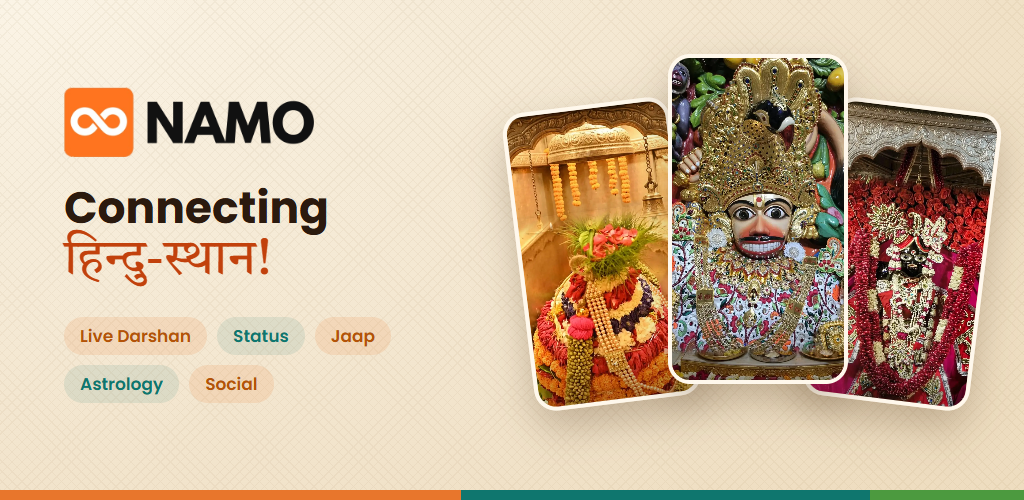
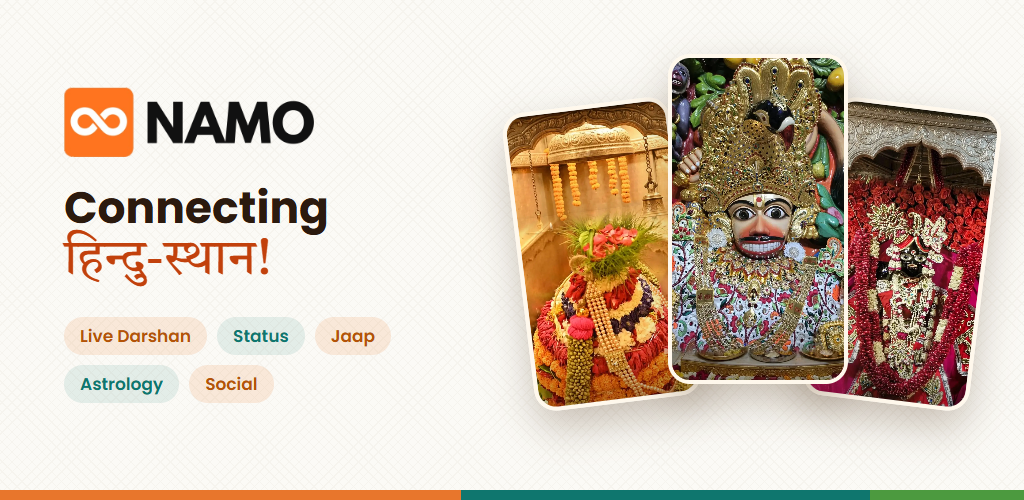
Play listing: six framed screenshots and the feature graphic on a cotton-white base

diff --git a/android/play-listing/feature.html b/android/play-listing/feature.html
@@ -6,10 +6,10 @@
   html, body { width: 1024px; height: 500px; overflow: hidden; }
   body {
     font-family: Poppins, sans-serif;
-    background: radial-gradient(120% 140% at 0% 0%, #FBF4E6 0%, #F3E6CF 60%, #EEDDC0 100%);
+    background: #FBFAF6;
     position: relative;
   }
-  .weave { position: absolute; inset: 0; opacity: .05;
+  .weave { position: absolute; inset: 0; opacity: .035;
     background-image: repeating-linear-gradient(45deg, #7a4a1a 0 1px, transparent 1px 7px),
                       repeating-linear-gradient(-45deg, #7a4a1a 0 1px, transparent 1px 7px); }
   .band { position: absolute; left: 0; right: 0; bottom: 0; height: 10px;

diff --git a/android/play-listing/screenshots/make.py b/android/play-listing/screenshots/make.py
@@ -1,0 +1,37 @@
+"""Writes one 1080x1920 page per Play screenshot: cotton-white base, heading, the phone shot."""
+import io, os
+D = os.path.dirname(os.path.abspath(__file__))
+SHOTS = [
+    ("s1-darshan", "Live darshan", "Temples across India. Swipe from one deity to the next."),
+    ("s2-status", "A new status every day", "Vrat, tithi and festival cards, ready to share."),
+    ("s3-jaap", "Mantra jaap counter", "Tap anywhere. The ghanta rings when your mala is complete."),
+    ("s4-consult", "Talk to an astrologer", "Chat, audio or video. See the rate before you start."),
+    ("s5-chart", "Your kundli, every day", "A daily prediction from your own chart."),
+    ("s6-home", "Your bhakti feed", "Posts and reels from people who share your faith."),
+]
+PAGE = """<!doctype html><html><head><meta charset="utf-8">
+<link href="https://fonts.googleapis.com/css2?family=Poppins:wght@500;600;700&display=swap" rel="stylesheet">
+<style>
+* {{ margin: 0; box-sizing: border-box; }}
+html, body {{ width: 1080px; height: 1920px; overflow: hidden; }}
+body {{ font-family: Poppins, sans-serif; background: #FBFAF6; position: relative; }}
+.weave {{ position: absolute; inset: 0; opacity: .035;
+  background-image: repeating-linear-gradient(0deg, #6b5a3a 0 1px, transparent 1px 6px),
+                    repeating-linear-gradient(90deg, #6b5a3a 0 1px, transparent 1px 6px); }}
+.head {{ position: absolute; top: 96px; left: 80px; right: 80px; text-align: center; }}
+.tick {{ width: 72px; height: 8px; border-radius: 4px; margin: 0 auto 30px;
+  background: linear-gradient(90deg, #E8762C 0 50%, #0F766E 50% 85%, #4C9A3F 85%); }}
+h1 {{ font-size: 76px; line-height: 1.1; font-weight: 700; color: #2B1A0E; }}
+p {{ margin-top: 22px; font-size: 38px; line-height: 1.35; font-weight: 500; color: #0F766E; }}
+.phone {{ position: absolute; left: 50%; transform: translateX(-50%); top: 420px;
+  width: 730px; border-radius: 56px; overflow: hidden; border: 14px solid #2B1A0E;
+  box-shadow: 0 40px 90px rgba(60,40,15,.25); background: #fff; }}
+.phone img {{ display: block; width: 100%; }}
+</style></head><body><div class="weave"></div>
+<div class="head"><div class="tick"></div><h1>{title}</h1><p>{sub}</p></div>
+<div class="phone"><img src="{img}"></div>
+</body></html>"""
+for key, title, sub in SHOTS:
+    io.open(os.path.join(D, key + ".html"), "w", encoding="utf-8").write(
+        PAGE.format(title=title, sub=sub, img=key + "-c.png"))
+print("ok")

diff --git a/HANDOFF.md b/HANDOFF.md
@@ -6584,7 +6584,11 @@ https://1namo.com/ — every web deploy is the app; no app update needed.
   Listing drafts in `android/play-listing/`: `description.txt` (name,
   short, full; no third-party brand names, no digital goods named),
   `feature-graphic-1024x500.png` and its `feature.html`. Sent to Rahul.
-  Screenshots wait on his phone's (the screens need sign-in). The Play
+  Screenshots: six from Rahul's phone framed at 1080x1920 on a cotton-white
+  base (his rule, 23 Oct; the feature graphic too) in
+  `android/play-listing/screenshots/` (`make.py` writes the pages); his
+  birth date masked on the chart. Telegram had shrunk them to 591 px wide,
+  so they are soft; asked for the originals as files. The Play
   Console's own items stay his or the owner's: App signing SHA-256, the
   full-screen-intent declaration (calling), a reviewer phone with a fixed
   OTP, Data safety, content rating (18+), the payments declaration for
